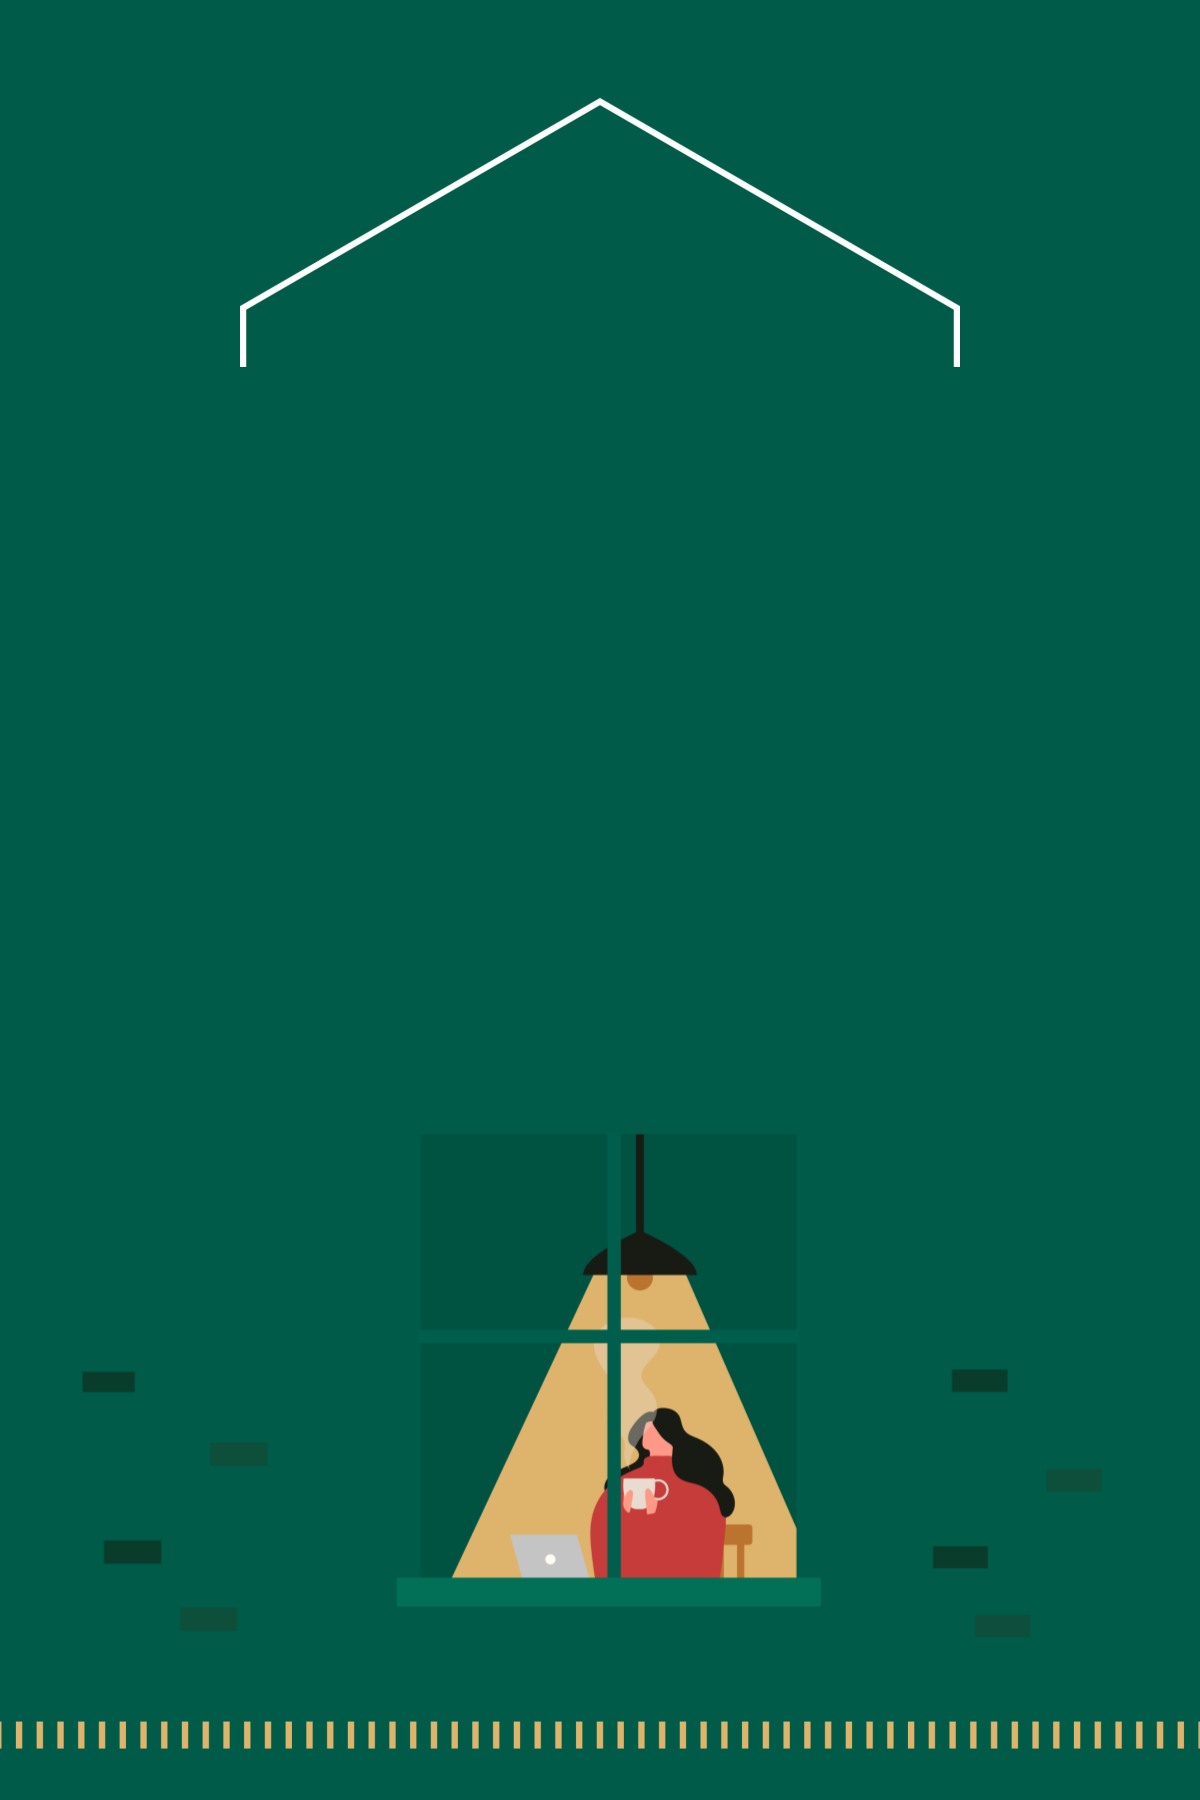
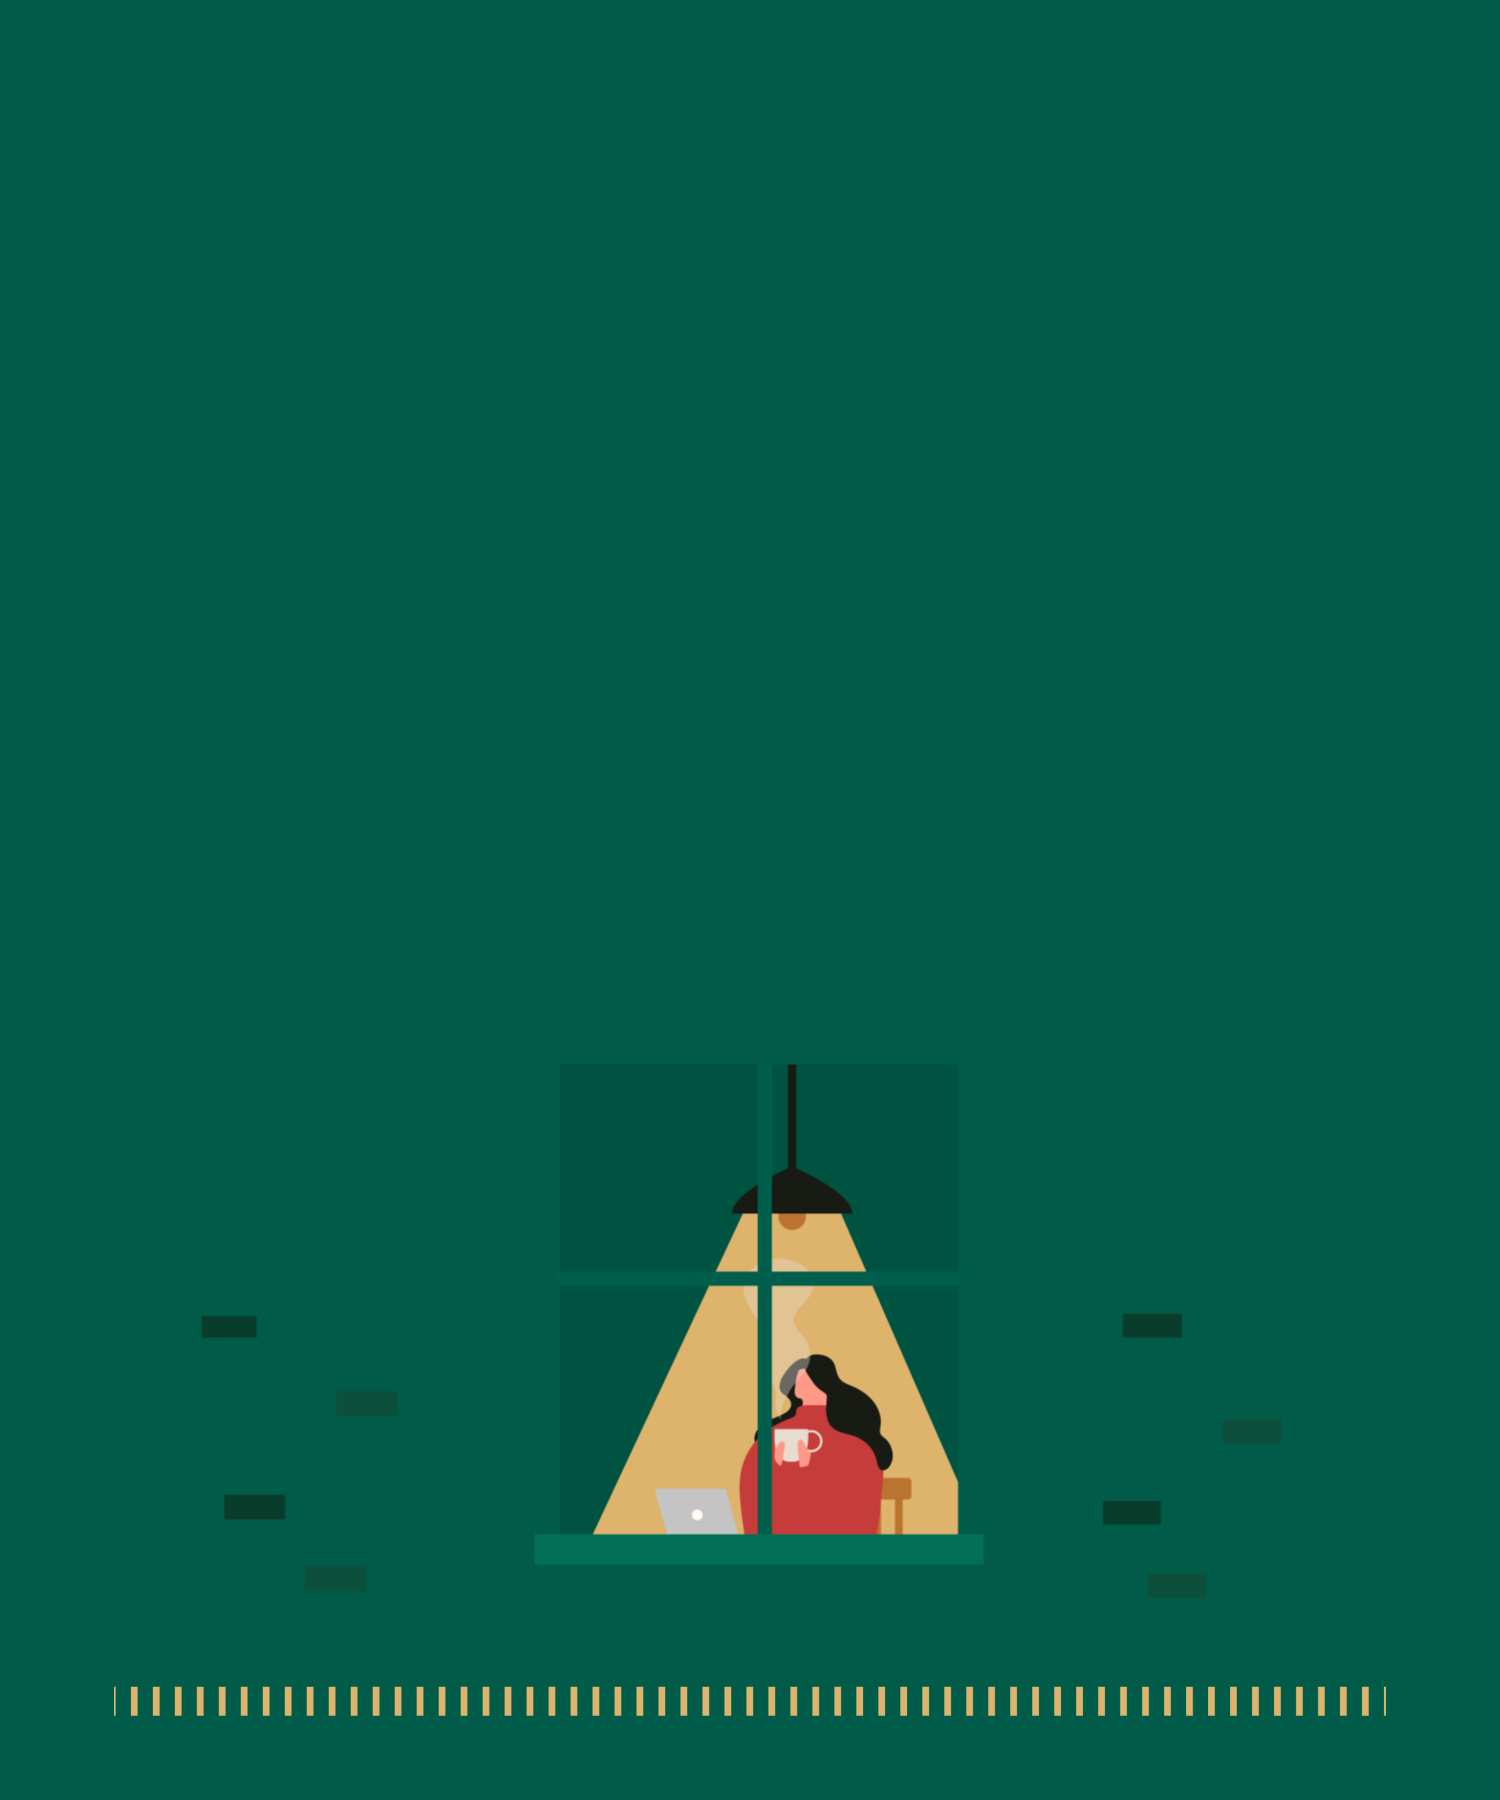
다른모드_css완성

diff --git a/src/components/ModeHouse.jsx b/src/components/ModeHouse.jsx
@@ -6,7 +6,7 @@ export default function ModeHouse() {
     border-radius: 2px;
     font-size: 1rem;
     /* background-color: #ffffff; */
-    background-image: url('img/modeHouse.png');
+    background-image: url('img/modeHouse2.png');
     background-size: cover;
     /* background-size: contain; */
     background-repeat: no-repeat;
@@ -15,6 +15,8 @@ export default function ModeHouse() {
     text-align: center;
     margin: auto;
     padding: 3rem;
+    padding-top: 6rem;
+
     word-break: keep-all;
     color: #fff;
     font-family: 'GongGothicMedium';
@@ -36,6 +38,7 @@ export default function ModeHouse() {
             <p
               style={{
                 fontSize: '1.5rem',
+                paddingTop: '8rem',
               }}
             >
               ㅇㅇ님의
@@ -45,6 +48,7 @@ export default function ModeHouse() {
                 color: '#FFCD4A',
                 paddingLeft: '0.5rem',
                 fontSize: '2rem',
+                paddingTop: '8rem',
               }}
             >
               2022년

diff --git a/src/components/GlobalStyle.jsx b/src/components/GlobalStyle.jsx
@@ -80,6 +80,13 @@ const GlobalStyle = createGlobalStyle`
     font-style: normal;
 }
 
+@font-face {
+    font-family: 'GmarketSansMedium';
+    src: url('https://cdn.jsdelivr.net/gh/projectnoonnu/noonfonts_2001@1.1/GmarketSansMedium.woff') format('woff');
+    font-weight: normal;
+    font-style: normal;
+}
+
 }
 
 

diff --git a/src/components/ModeLight.jsx b/src/components/ModeLight.jsx
@@ -25,7 +25,7 @@ export default function ModeLight() {
     padding: 3rem;
     word-break: keep-all;
     color: #787878;
-    font-family: 'GongGothicMedium';
+    font-family: 'GmarketSansMedium';
     line-height: 1.8rem;
     top: 0%;
   `;
